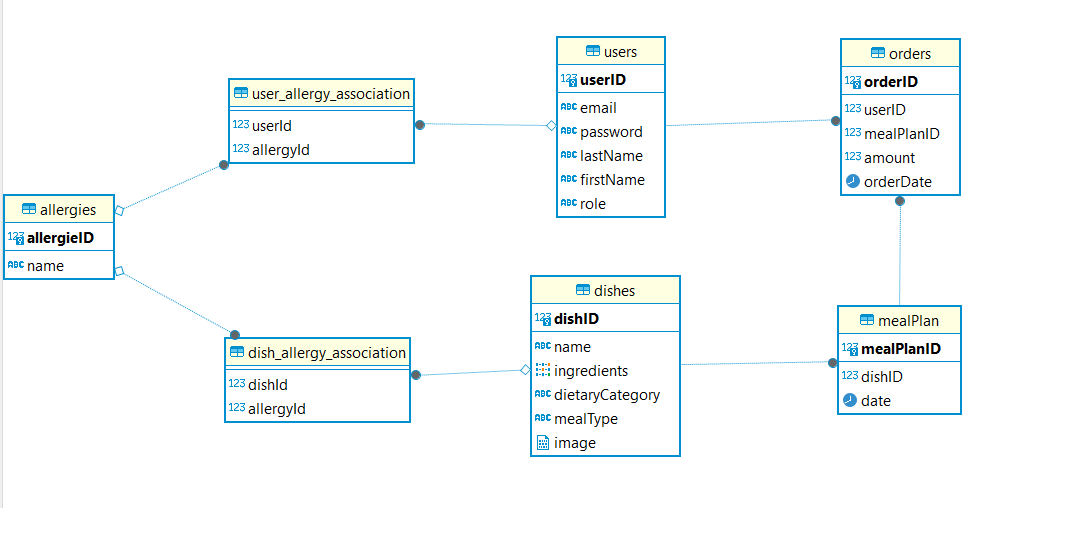
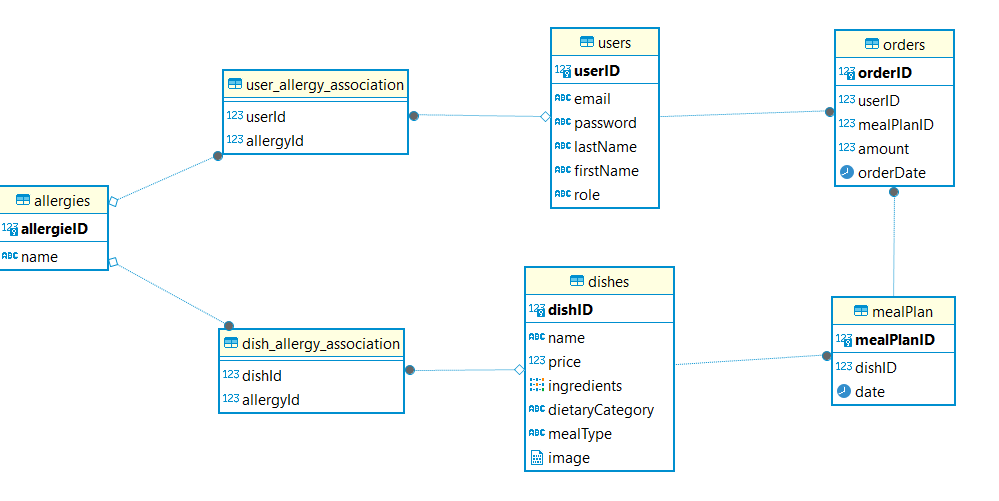
159-Added Price to Database

diff --git a/Web-App/Backend/DB_Repositories/dishesRepository.py b/Web-App/Backend/DB_Repositories/dishesRepository.py
@@ -19,6 +19,7 @@ class DishRepository:
                 dish_dict = {
                     "dish_id": dish_data.dishID,
                     "name": dish_data.name,
+                    "price": dish_data.price,
                     "allergies": allergies,
                     "ingredients": dish_data.ingredients,
                     "dietaryCategorie": dish_data.dietaryCategory,
@@ -42,6 +43,7 @@ class DishRepository:
                 dish_dict = {
                     "dish_id": dish_data.dishID,
                     "name": dish_data.name,
+                    "price": dish_data.price,
                     "allergies": allergies,
                     "ingredients": dish_data.ingredients,
                     "dietaryCategorie": dish_data.dietaryCategory,
@@ -56,7 +58,7 @@ class DishRepository:
         finally:
             session.close()         
 
-    def create_dish(self, name,  dietary_category, meal_type, ingredients=None, image=None, allergies=None):
+    def create_dish(self, name, price, dietary_category, meal_type, ingredients=None, image=None, allergies=None):
         try:
             session = scoped_session(self.session_factory)
             min_ = 1
@@ -69,6 +71,7 @@ class DishRepository:
             new_dish = Dish(
                 dishID=rand_dishID,
                 name=name,
+                price=price,
                 ingredients=ingredients,
                 dietaryCategory=dietary_category,
                 mealType=meal_type,

diff --git a/Web-App/Backend/app.py b/Web-App/Backend/app.py
@@ -205,13 +205,14 @@ def dish_by_name(dish_name):
 def create_dish():
         data = request.json
         name = data.get('name')
+        price = data.get('price')
         ingredients = data.get('ingredients')
         dietaryCategory = data.get('dietaryCategory')
         mealType = data.get('mealType')
         image = data.get('image')
         allergies = data.get('allergies')
 
-        if not (name and dietaryCategory and mealType):
+        if not (name and price and dietaryCategory and mealType):
             return jsonify({"message": "Missing required fields"}), 400
 
         if dish_repo.get_dish_by_name(name):
@@ -219,7 +220,7 @@ def create_dish():
 
         image = base64.b64decode(image) if image else None
 
-        ret_value = dish_repo.create_dish(name, dietaryCategory, mealType, ingredients, image, allergies)
+        ret_value = dish_repo.create_dish(name, price, dietaryCategory, mealType, ingredients, image, allergies)
         if not ret_value:   # If ret_value is empty no allergies were missing
             return jsonify({"message": "Dish created successful"}), 201
         elif ret_value:     # If ret_value contains values allergies were missing

diff --git a/Web-App/Backend/DB_Repositories/models.py b/Web-App/Backend/DB_Repositories/models.py
@@ -1,4 +1,4 @@
-from sqlalchemy import create_engine, MetaData, Column, Integer, String, Date, Table, ForeignKey, ARRAY, LargeBinary
+from sqlalchemy import create_engine, MetaData, Column, Integer, String, Date, Table, ForeignKey, ARRAY, LargeBinary, Float
 from sqlalchemy.orm import relationship, declarative_base
 
 
@@ -29,6 +29,7 @@ class Dish(Base):
 
     dishID = Column(Integer, primary_key=True, autoincrement=True)
     name = Column(String(50), nullable=False)
+    price = Column(Float, nullable=False)
     ingredients = Column(ARRAY(String))
     dietaryCategory = Column(String(50), nullable=False)
     mealType = Column(String(50), nullable=False)
